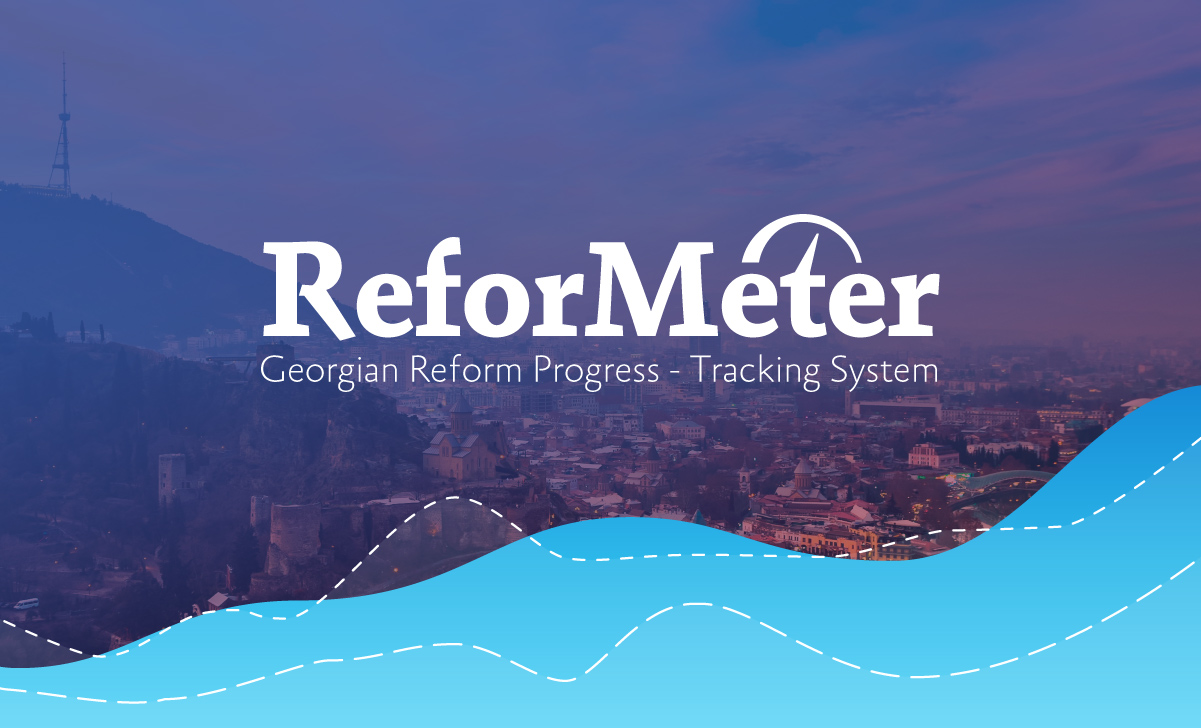
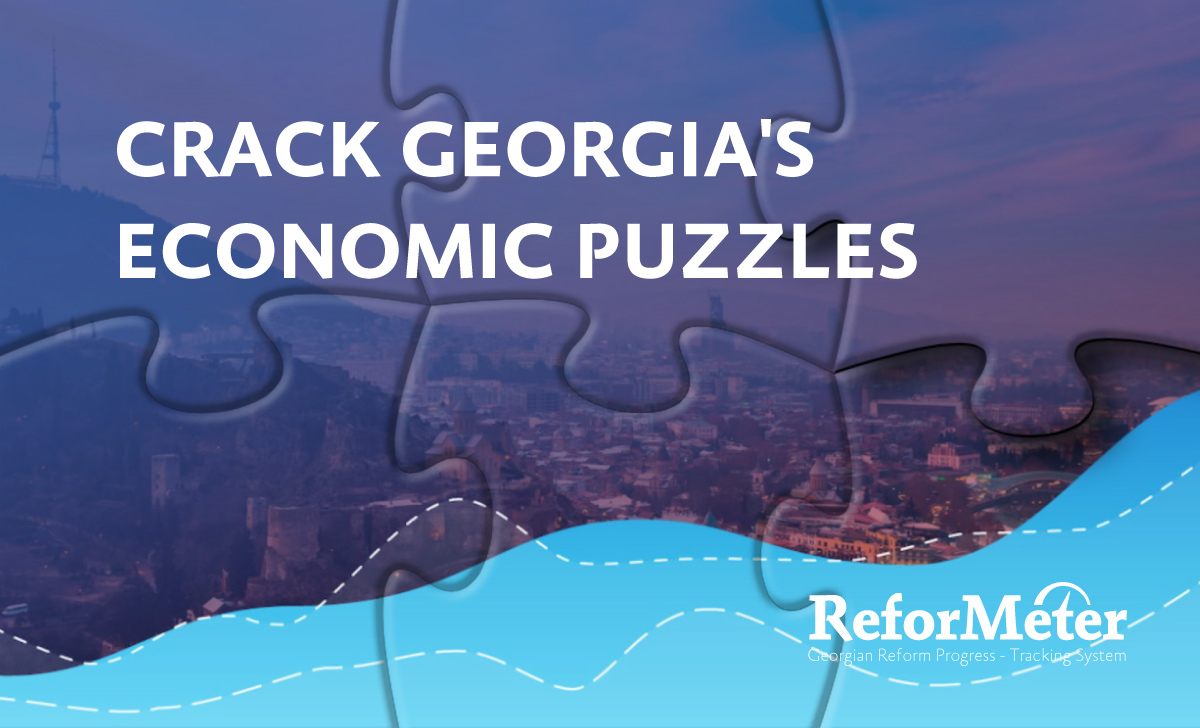
updated puzzle images; updated homepage puzzle block

diff --git a/app/assets/stylesheets/components/puzzles.scss b/app/assets/stylesheets/components/puzzles.scss
@@ -1,3 +1,18 @@
+.homePage-externalIndicator.mod-puzzle{
+  padding:  10px 0;
+
+  .homePage-puzzle-image-link{
+    border-bottom: 3px solid #f3f3f4;
+    display: block;
+    img{
+      max-width:  517.5px;
+    }
+    &:hover img{
+      opacity: 0.9;
+    }
+  }
+}
+
 article.puzzle {
   display: flex;
   flex-direction: column;

diff --git a/app/controllers/root_controller.rb b/app/controllers/root_controller.rb
@@ -4,7 +4,7 @@ class RootController < ApplicationController
     @verdict = Verdict.published.recent.first
     @external_indicators = ExternalIndicator.published.for_home_page.with_time_periods
     @reforms = Reform.with_reform_survey(@verdict.id).in_verdict(@verdict.id).active.highlight.sorted if @verdict
-    @news = News.published.sorted.with_title.limit(1)
+    @news = News.published.sorted.with_title.limit(2)
     @puzzles = Puzzle.published.sorted.with_title.limit(1)
 
     gon.change_icons = view_context.change_icons
